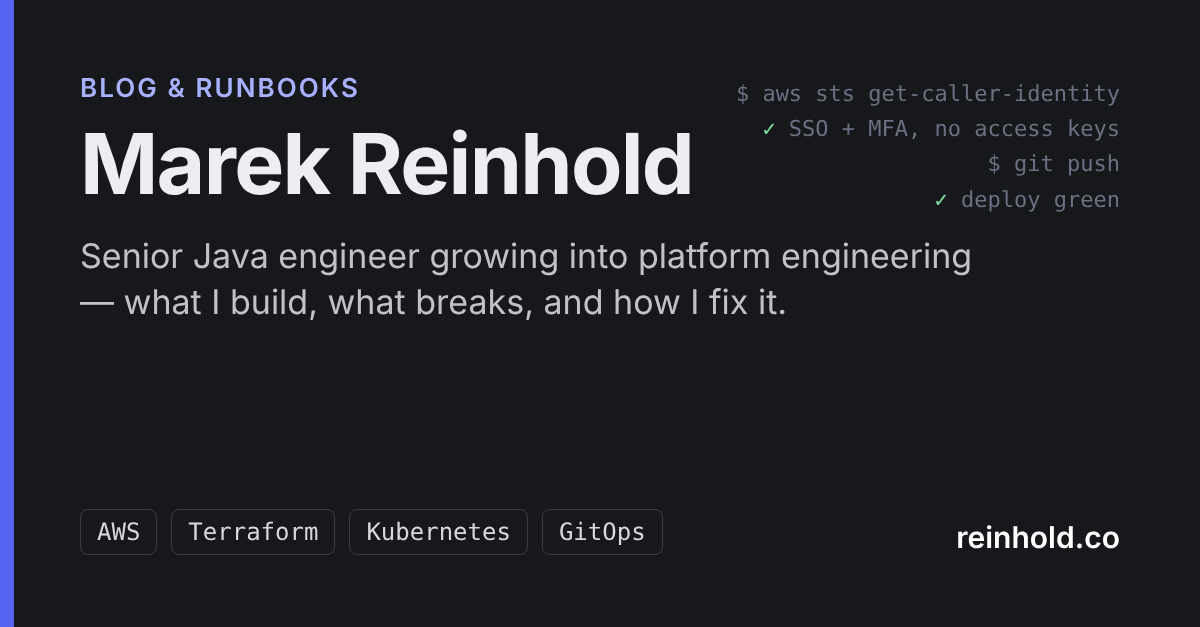
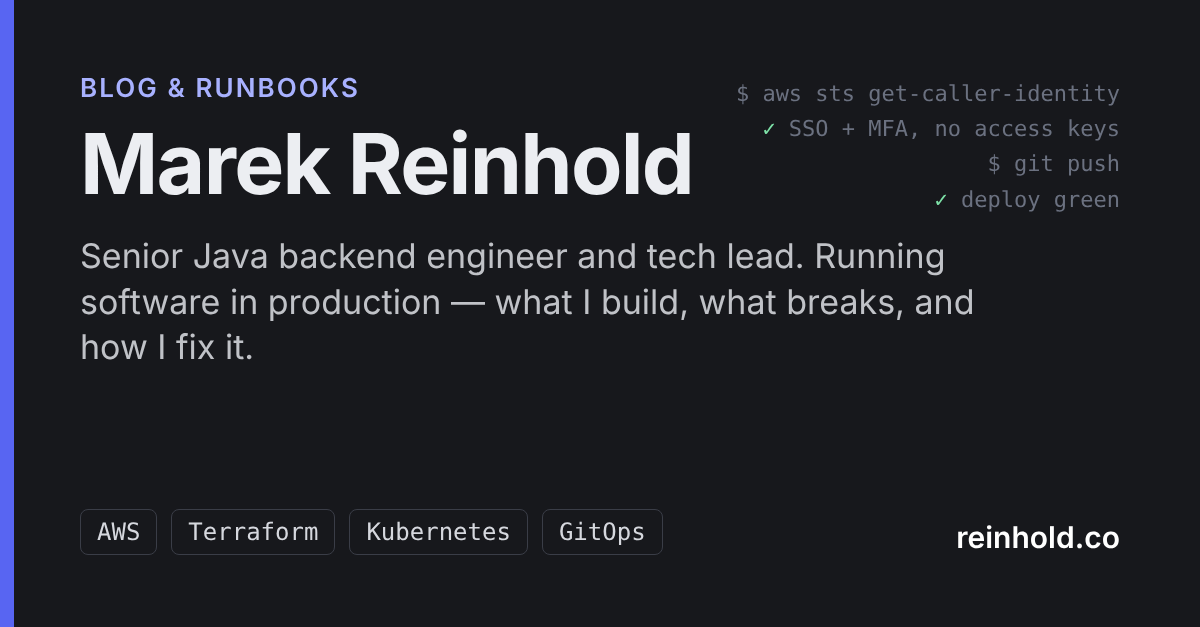
site: reword to running software in production; publish 'Going deeper' post

Changed region(s): [[0.0617, 0.3939, 0.8325, 0.5758]]

diff --git a/src/content/docs/blog/2026-10-27-going-deeper-on-production.md b/src/content/docs/blog/2026-10-27-going-deeper-on-production.md
@@ -1,0 +1,23 @@
+---
+title: Going deeper on how software runs in production
+description: Why a Java backend engineer is spending 10 hours a week on AWS, infrastructure as code and Kubernetes — and why every step ends with evidence.
+date: 2026-10-27
+tags: [aws, kubernetes, learning]
+excerpt: For 8 years I've built backend systems in Java. The hardest problems often sat just past the code.
+draft: false
+---
+
+For 8 years I've built backend systems in Java. The code is the part I know best.
+
+But the hardest problems I've worked on often sat just past the code: how a service is deployed, how it's secured, how we see what it's doing, and how fast we can recover when something breaks.
+
+So I'm going deeper on that side, about 10 hours a week:
+
+- AWS the way it's run in production: multi-account, SSO, guard rails, budgets
+- Infrastructure as code, rebuilt from scratch on a timer
+- Kubernetes on my own hardware: an old laptop and two Raspberry Pi 5s
+- Observability, SLOs and restores I've actually timed
+
+One rule: every step ends with evidence — what I built, how I checked it, what broke.
+
+I write the interesting parts here, mostly the failures. The step-by-step versions live under [Runbooks](/runbooks/).

diff --git a/src/content/docs/about.md b/src/content/docs/about.md
@@ -5,7 +5,7 @@ description: Who I am and how to reach me.
 
 I'm Marek, a senior Java backend engineer and tech lead with 8+ years of building backend systems in fintech and public-sector integrations.
 
-This blog and the runbooks are how I'm growing into platform engineering: learning to own the deployment, security, observability and recovery of the systems I build, and writing each step down so others can follow it.
+This blog and the runbooks are how I keep getting better at the side of the work just past the code: deployment, security, observability and recovery — written down step by step so others can follow.
 
 Everything here is built in my own homelab and personal AWS accounts. Nothing on this site comes from, or describes, any employer's systems.
 

diff --git a/src/content/docs/runbooks/index.md b/src/content/docs/runbooks/index.md
@@ -3,7 +3,7 @@ title: Runbooks
 description: Who these runbooks are for, what they cost, and how far you can trust them.
 sidebar: { order: 0, label: Start here }
 ---
-These are the runbooks I use to learn platform engineering: AWS the way it's run in production, Terraform, and Kubernetes on my own hardware. Each one is published only **after I've run it end to end**, with my real results and the things that broke.
+These are the runbooks I use to go deeper on how software runs in production: AWS the way it's run in production, Terraform, and Kubernetes on my own hardware. Each one is published only **after I've run it end to end**, with my real results and the things that broke.
 
 ## Who they're for
 

diff --git a/README.md b/README.md
@@ -1,6 +1,6 @@
 # devops-journey
 
-Source of [reinhold.co](https://reinhold.co): tested platform-engineering runbooks (AWS, Terraform, Kubernetes) and a journey log. Built with [Astro Starlight](https://starlight.astro.build), deployed to GitHub Pages on every push to `master`.
+Source of [reinhold.co](https://reinhold.co): a blog and tested runbooks for running software in production (AWS, Terraform, Kubernetes). Built with [Astro Starlight](https://starlight.astro.build), deployed to GitHub Pages on every push to `master`.
 
 ```bash
 npm ci
